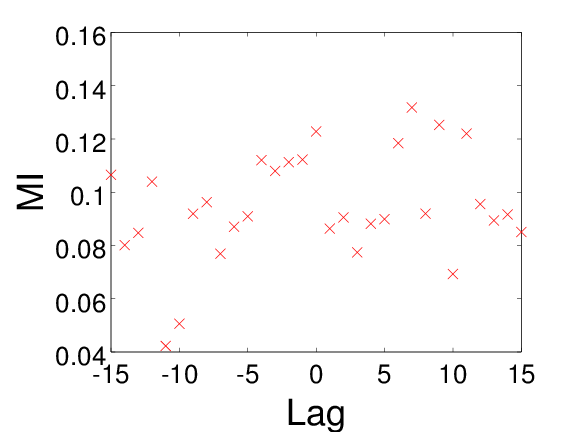
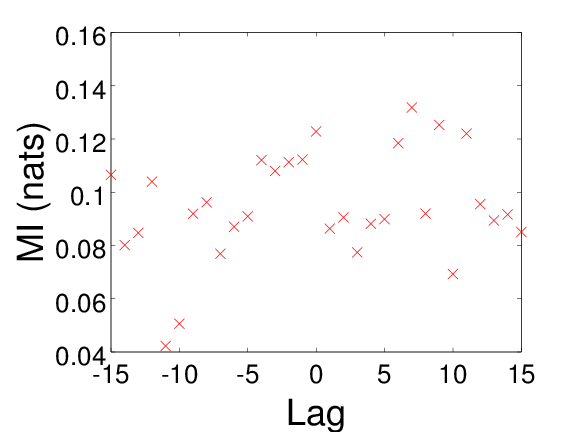
Adding sample tutorial solutions, updating image for the web, and updating build file to include tutorials

Changed region(s): [[0.0312, 0.2708, 0.0938, 0.6019]]

diff --git a/tutorial/sampleExerciseSolutions/matlabOctave/runHeartBreathRateKraskovMIWithLags.m b/tutorial/sampleExerciseSolutions/matlabOctave/runHeartBreathRateKraskovMIWithLags.m
@@ -1,0 +1,117 @@
+%%
+%%  Java Information Dynamics Toolkit (JIDT)
+%%  Copyright (C) 2012, Joseph T. Lizier
+%%  
+%%  This program is free software: you can redistribute it and/or modify
+%%  it under the terms of the GNU General Public License as published by
+%%  the Free Software Foundation, either version 3 of the License, or
+%%  (at your option) any later version.
+%%  
+%%  This program is distributed in the hope that it will be useful,
+%%  but WITHOUT ANY WARRANTY; without even the implied warranty of
+%%  MERCHANTABILITY or FITNESS FOR A PARTICULAR PURPOSE.  See the
+%%  GNU General Public License for more details.
+%%  
+%%  You should have received a copy of the GNU General Public License
+%%  along with this program.  If not, see <http://www.gnu.org/licenses/>.
+%%
+
+% function [miHeartToBreath] = runHeartBreathRateKraskovMIWithLags(lags, numSurrogates)
+%
+% runHeartBreathRateKraskovMI
+% Version 1.0
+% Joseph Lizier
+% 3/2/2015
+%
+% Used to explore mutual information in the heart rate / breath rate example of Schreiber --
+%  but estimates MI using Kraskov-Stoegbauer-Grassberger estimation.
+%
+% This script is used to address challenge 1, incorporating lags between heart and breath data.
+%
+% Note that the paths (to libraries, data, etc) are set assuming this code is run in
+% the folder tutorial/sampleExercises/matlabOctave, relative to the main folder of the JIDT distribution.
+%
+%
+% Inputs
+% - lags - a scalar specifying a single, or vector specifying multiple, lag from heart to breath to evaluate MI with.
+%    These lags may be negative, implying a (positive) lag from breath to heart.
+% - surrogates - number of surrogates to compute MI for, showing the null distribution if there were no
+%    relationship at the given lag.
+% Outputs
+% - miHeartToBreath - MI (heart ; breath) for each value of lags
+
+
+function [miHeartToBreath] = runHeartBreathRateKraskovMIWithLags(lags, numSurrogates)
+
+	tic;
+	
+	% Add Octave utilities to the path
+	addpath('../../../demos/octave/');
+
+	% Assumes the jar is three levels up - change this if this is not the case
+	% Octave is happy to have the path added multiple times; I'm unsure if this is true for matlab
+	javaaddpath('../../../infodynamics.jar');
+
+	if (nargin < 1)
+		lags = [0];
+	end
+
+	if (nargin < 2)
+		numSurrogates = 0;
+	end
+
+	data = load('../../../demos/data/SFI-heartRate_breathVol_bloodOx.txt');
+	
+	% Restrict to the samples that Schreiber mentions:
+	data = data(2350:3550,:);
+	
+	% Separate the data from each column:
+	heart = data(:,1);
+	chestVol = data(:,2);
+	bloodOx = data(:,3);
+	timeSteps = length(heart);
+	
+	fprintf('MI for heart rate <-> breath rate for Kraskov estimation with %d samples:\n', timeSteps);
+
+	% Using a KSG estimator for MI is the least biased way to run this:
+	miCalc=javaObject('infodynamics.measures.continuous.kraskov.MutualInfoCalculatorMultiVariateKraskov2');
+
+	for lagIndex = 1:length(lags)
+		lag = lags(lagIndex);
+		% Compute an MI value for this lag
+		
+		miCalc.initialise(1,1); % univariate calculation
+		miCalc.setProperty('k', '4');
+		if (lag < 0)
+			source = chestVol;
+			target = heart;
+		else
+			source = heart;
+			target = chestVol;
+		end
+		miCalc.setProperty('TIME_DIFF', sprintf("%d", abs(lag)));
+		miCalc.setObservations(octaveToJavaDoubleArray(source), ...
+					octaveToJavaDoubleArray(target));
+		miHeartToBreath(lagIndex) = miCalc.computeAverageLocalOfObservations();
+		fprintf('MI(lag=%d): = %.3f nats', lag, miHeartToBreath(lagIndex));
+		if (numSurrogates > 0)
+			% My observations suggest that most results here for lags -15:15 are statistically significant
+			% (threshold for multiple comparisons corrected 0.05 level would be about 0.08 nats.)
+			miHeartToBreathNullDist = miCalc.computeSignificance(numSurrogates);
+			miHeartToBreathNullMean = miHeartToBreathNullDist.getMeanOfDistribution();
+			miHeartToBreathNullStd = miHeartToBreathNullDist.getStdOfDistribution();
+			fprintf(" (null = %.3f +/- %.3f)", miHeartToBreathNullMean, miHeartToBreathNullStd),
+		end
+		fprintf("\n");
+	end
+		
+	tElapsed = toc;
+	fprintf('Total runtime was %.1f sec\n', tElapsed);
+	
+	plot(lags, miHeartToBreath, 'rx', 'markersize', 10);
+	set (gca,'fontsize',26);
+	xlabel('Lag', 'FontSize', 36, 'FontWeight', 'bold');
+	ylabel('MI (nats)', 'FontSize', 36, 'FontWeight', 'bold');
+	print('heartBreathResults-kraskovMI.eps', '-depsc');
+end
+

diff --git a/tutorial/sampleExerciseSolutions/matlabOctave/runHeartBreathRateKraskovMI.m b/tutorial/sampleExerciseSolutions/matlabOctave/runHeartBreathRateKraskovMI.m
@@ -1,0 +1,76 @@
+%%
+%%  Java Information Dynamics Toolkit (JIDT)
+%%  Copyright (C) 2012, Joseph T. Lizier
+%%  
+%%  This program is free software: you can redistribute it and/or modify
+%%  it under the terms of the GNU General Public License as published by
+%%  the Free Software Foundation, either version 3 of the License, or
+%%  (at your option) any later version.
+%%  
+%%  This program is distributed in the hope that it will be useful,
+%%  but WITHOUT ANY WARRANTY; without even the implied warranty of
+%%  MERCHANTABILITY or FITNESS FOR A PARTICULAR PURPOSE.  See the
+%%  GNU General Public License for more details.
+%%  
+%%  You should have received a copy of the GNU General Public License
+%%  along with this program.  If not, see <http://www.gnu.org/licenses/>.
+%%
+
+% function [miHeartToBreath] = runHeartBreathRateKraskovMI()
+%
+% runHeartBreathRateKraskovMI
+% Version 1.0
+% Joseph Lizier
+% 3/2/2015
+%
+% Used to explore mutual information in the heart rate / breath rate example of Schreiber --
+%  but estimates MI using Kraskov-Stoegbauer-Grassberger estimation.
+%
+% Note that the paths (to libraries, data, etc) are set assuming this code is run in
+% the folder tutorial/sampleExercises/matlabOctave, relative to the main folder of the JIDT distribution.
+%
+%
+% Outputs
+% - miHeartToBreath - MI (heart ; breath)
+
+
+function [miHeartToBreath] = runHeartBreathRateKraskovMI()
+
+	tic;
+	
+	% Add Octave utilities to the path
+	addpath('../../../demos/octave/');
+
+	% Assumes the jar is three levels up - change this if this is not the case
+	% Octave is happy to have the path added multiple times; I'm unsure if this is true for matlab
+	javaaddpath('../../../infodynamics.jar');
+
+	data = load('../../../demos/data/SFI-heartRate_breathVol_bloodOx.txt');
+	
+	% Restrict to the samples that Schreiber mentions:
+	data = data(2350:3550,:);
+	
+	% Separate the data from each column:
+	heart = data(:,1);
+	chestVol = data(:,2);
+	bloodOx = data(:,3);
+	timeSteps = length(heart);
+	
+	fprintf('MI for heart rate <-> breath rate for Kraskov estimation with %d samples:\n', timeSteps);
+
+	% Using a KSG estimator for MI is the least biased way to run this:
+	miCalc=javaObject('infodynamics.measures.continuous.kraskov.MutualInfoCalculatorMultiVariateKraskov2');
+
+	% Compute an MI value between heart and breath
+	
+	miCalc.initialise(1,1); % univariate calculation
+	miCalc.setProperty('k', '4'); % 4 nearest neighbours for KSG estimator
+	miCalc.setObservations(octaveToJavaDoubleArray(heart), ...
+				octaveToJavaDoubleArray(chestVol));
+	miHeartToBreath = miCalc.computeAverageLocalOfObservations();
+	fprintf('MI: = %.3f nats\n', miHeartToBreath);
+		
+	tElapsed = toc;
+	fprintf('Total runtime was %.1f sec\n', tElapsed);
+end
+
